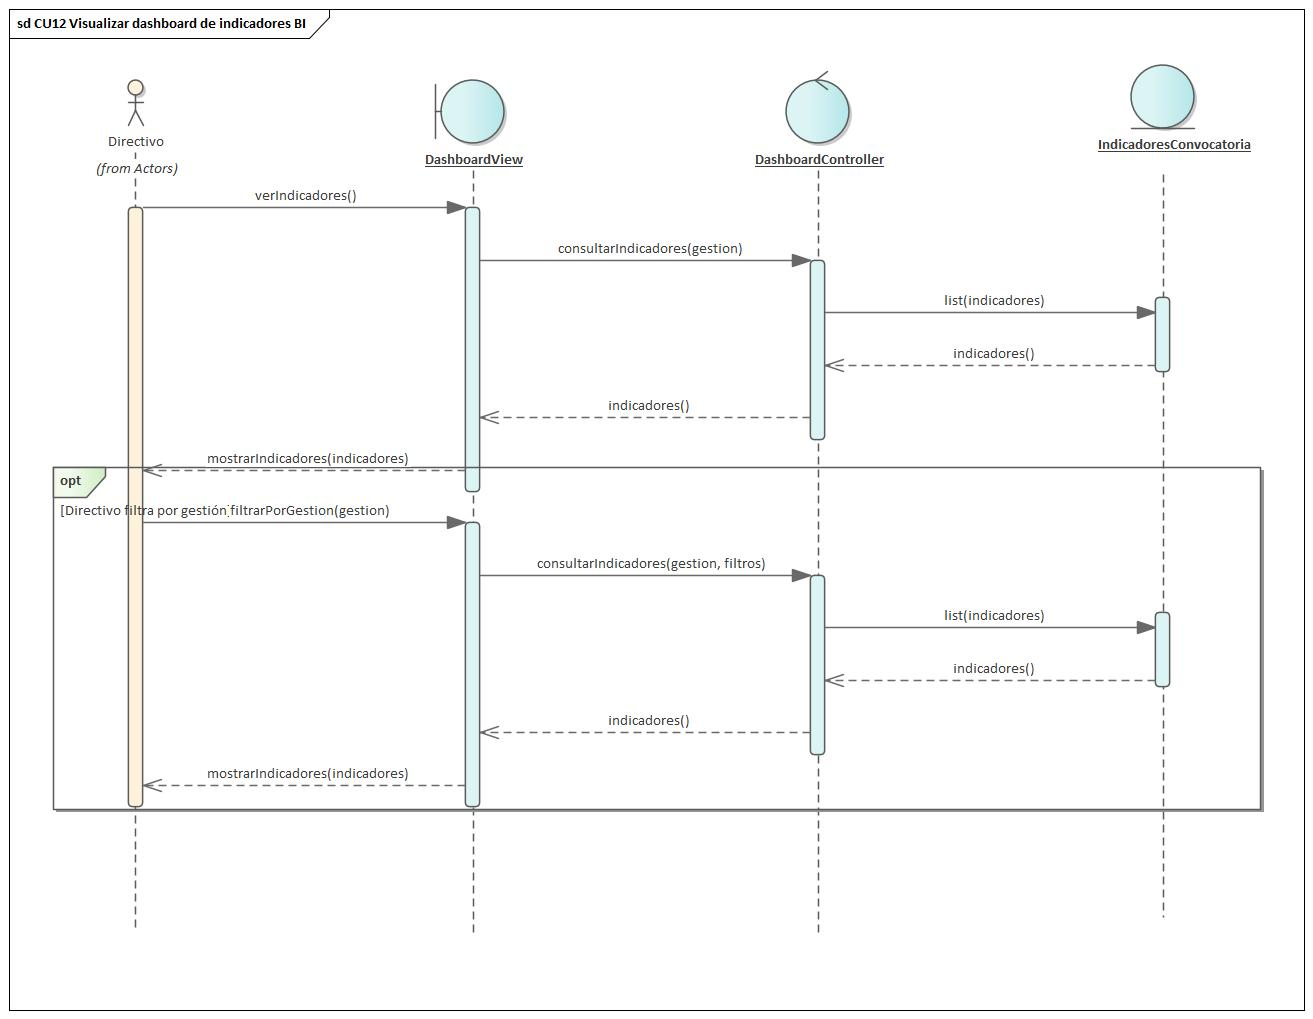
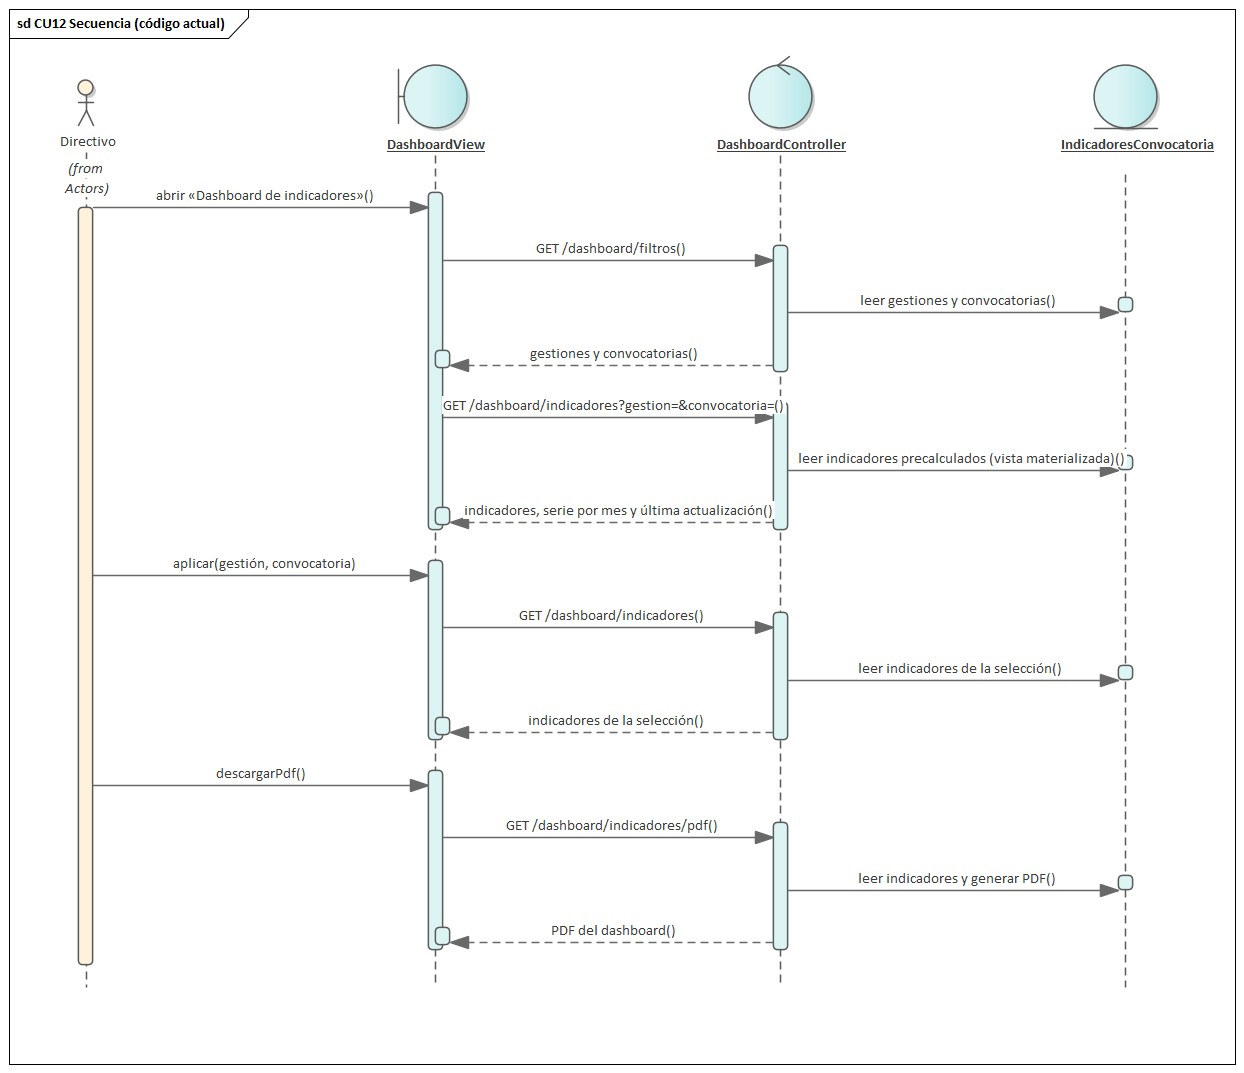
docs[DOCS]: Alinear CU12 con el código (filtro por convocatoria, PDF, ERR_DAS, análisis y secuencia regenerados)

diff --git a/secciones/07_capitulo5_requisitos/04_detalle_casos_uso.tex b/secciones/07_capitulo5_requisitos/04_detalle_casos_uso.tex
@@ -950,7 +950,7 @@
 \endlastfoot
 \textbf{Propósito} & Brindar al Directivo un dashboard interactivo de Business Intelligence con los indicadores clave del proceso de la Beca Comedor, como apoyo a la toma de decisiones. \\
 \midrule
-\textbf{Descripción} & Este caso de uso describe cómo el Directivo consulta el dashboard de indicadores: postulaciones recibidas, finalistas, becas adjudicadas y asistencia, por convocatoria y por mes, con la posibilidad de filtrarlos por gestión académica. Los indicadores se obtienen de vistas precalculadas que se actualizan por lotes, de modo que la consulta no afecta el rendimiento de las operaciones transaccionales. Es una consulta de solo lectura. Respalda el RF-07. \\
+\textbf{Descripción} & Este caso de uso describe cómo el Directivo consulta el dashboard de indicadores: postulaciones recibidas, finalistas, becas adjudicadas y asistencia promedio, con gráficos por mes de postulaciones y de asistencia, filtrados por gestión académica y, opcionalmente, por convocatoria. Los indicadores se obtienen de una vista materializada que se refresca por lotes de forma nocturna, de modo que la consulta no afecta el rendimiento de las operaciones transaccionales, y se muestra la fecha de la última actualización. El Directivo puede descargar lo que está viendo como un PDF. Es una consulta de solo lectura. Respalda el RF-07. \\
 \midrule
 \textbf{Actores} & Directivo. \\
 \midrule
@@ -964,15 +964,18 @@
 \textbf{Proceso} & \textbf{Flujo principal.}
 \begin{cupasos}
     \item El Directivo selecciona la opción «Dashboard de indicadores».
-    \item El sistema consulta los indicadores precalculados de la gestión académica vigente.
-    \item El sistema muestra en gráficos interactivos los indicadores de postulaciones recibidas, finalistas, becas adjudicadas y asistencia, por convocatoria y por mes, junto con la fecha de su última actualización.
-    \item El Directivo selecciona una gestión académica para filtrar los indicadores.
-    \item El sistema consulta los indicadores de la gestión seleccionada y actualiza el dashboard.
+    \item El sistema consulta los indicadores precalculados de la gestión académica vigente, con todas sus convocatorias.
+    \item El sistema muestra los cuatro indicadores (postulaciones recibidas, finalistas, becas adjudicadas y asistencia promedio), los gráficos de postulaciones y de asistencia por mes, y la fecha de su última actualización.
+    \item El Directivo selecciona otra gestión académica o una convocatoria y pulsa «Aplicar».
+    \item El sistema consulta los indicadores de esa selección y actualiza el dashboard.
+    \item Si lo desea, el Directivo pulsa «Descargar PDF» y el sistema genera un documento con lo que está viendo y lo descarga.
 \end{cupasos} \\
  & \textbf{Flujos alternativos.}
 \begin{cuvin}
-    \item A1 (pasos 2 y 5): si no existen datos para la gestión académica consultada, el sistema muestra un mensaje informativo.
-    \item A2 (paso 3): si el proceso por lotes aún no se ha ejecutado, el sistema muestra los últimos indicadores disponibles con su fecha de actualización.
+    \item A1 (pasos 2 y 5): si no existen datos para la gestión o la convocatoria consultada, el sistema muestra un mensaje informativo con los indicadores en cero.
+    \item A2 (paso 3): si el proceso por lotes aún no se ha ejecutado, el sistema muestra los últimos indicadores disponibles con su fecha de actualización; si nunca se ejecutó, lo indica.
+    \item A3 (paso 4): si la gestión o la convocatoria no existe, o la convocatoria no pertenece a la gestión, el sistema responde 404 (ERR\_DAS\_01) y conserva la última selección válida.
+    \item A4 (paso 6): si no hay datos que exportar, el sistema responde 400 (ERR\_DAS\_02) y no genera el PDF.
 \end{cuvin} \\
 \midrule
 \textbf{Postcondición} & \vspace{-\baselineskip}\begin{cuvin}

diff --git a/secciones/08_capitulo6_analisis/02_analisis_casos_uso.tex b/secciones/08_capitulo6_analisis/02_analisis_casos_uso.tex
@@ -198,7 +198,7 @@ Al consultar una planilla (mensaje 1), el controlador obtiene la planilla (1.2) 
 
 \subsubsection{6.2.12. Analizar CU-12 Visualizar dashboard de indicadores BI}\label{sec:cap6_analisis_cu12}
 
-En el CU-12, el Directivo consulta el dashboard mediante \textit{DashboardView} y \textit{DashboardController}. La única entidad involucrada es \textit{IndicadoresConvocatoria}, que representa los indicadores precalculados por lotes a partir de las postulaciones, adjudicaciones, becas y asistencias. La Figura~\ref{fig:analisis_cu12} presenta el diagrama de análisis.
+En el CU-12, el Directivo consulta el dashboard mediante \textit{DashboardView} y \textit{DashboardController}. La única entidad involucrada es \textit{IndicadoresConvocatoria}, que representa los indicadores precalculados por lotes a partir de las postulaciones, adjudicaciones, becas y asistencias. El controlador consulta esos indicadores para la selección de gestión y convocatoria (mensajes 1.2 y 2.2) y los reutiliza para generar el PDF descargable (3.2). La Figura~\ref{fig:analisis_cu12} presenta el diagrama de análisis.
 
 \begin{figure}[H]
 \caption{Análisis del CU-12 Visualizar dashboard de indicadores BI}
